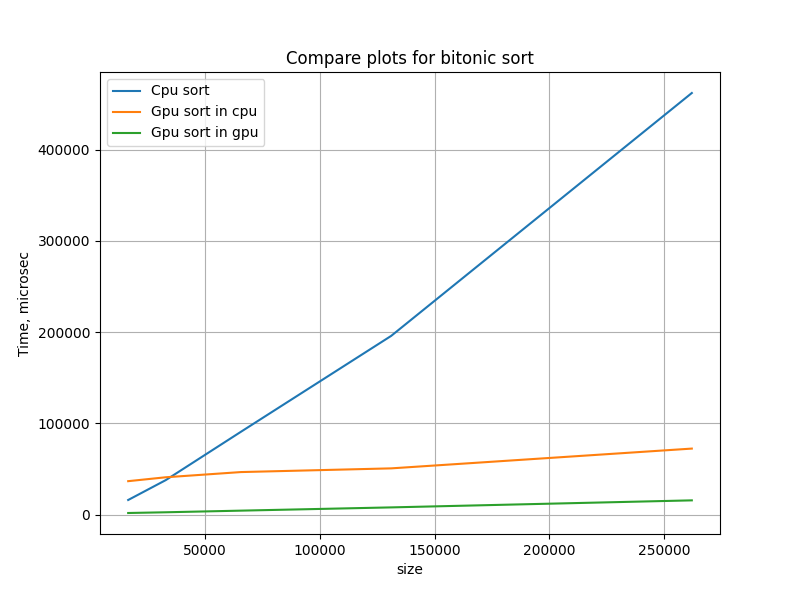
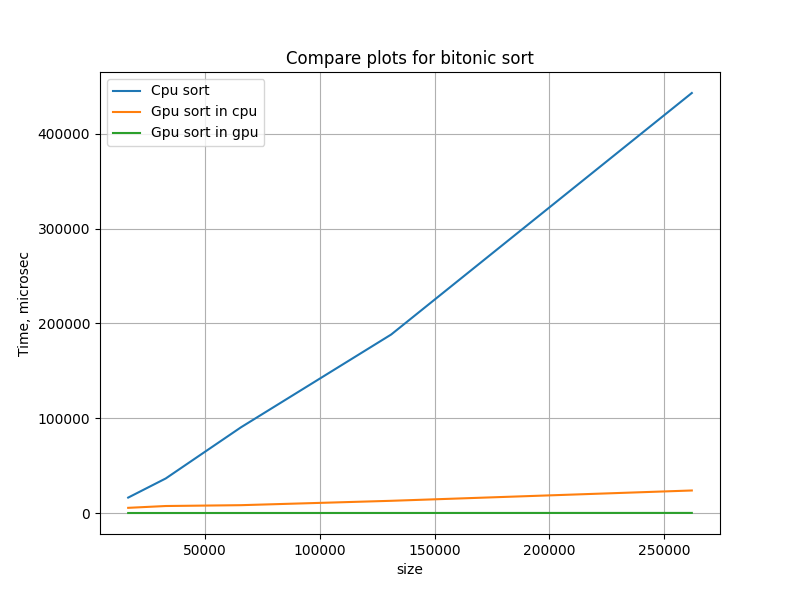
fixed gpu sort logic

diff --git a/OpenCL/include/GpuBitonicSort.hpp b/OpenCL/include/GpuBitonicSort.hpp
@@ -75,35 +75,28 @@ public:
 
         size_t bufSize = size * sizeof(T);
         cl::Buffer buf(context_, CL_MEM_WRITE_ONLY, bufSize);
-
-        using namespace std::chrono;
-        auto cpuStart = high_resolution_clock::now();
-        cl::copy(queue_, data.begin(), data.end(), buf);
-        auto cpuEnd = high_resolution_clock::now();
-        auto cpuElapsed = duration_cast<microseconds>(cpuEnd - cpuStart).count();
-
         cl::KernelFunctor<cl::Buffer, uint, uint> parallel(program_, "bitonic");
         cl::NDRange globalRange(size);
+        cl::Event event;
+
+        using namespace std::chrono;
+
+        auto cpuStart = high_resolution_clock::now();
+        cl::copy(queue_, data.begin(), data.end(), buf);
         cl::EnqueueArgs args(queue_, globalRange);
-
-        cl_ulong gpuStart = 0;
-        cl_ulong gpuEnd = 0;
-        long long gpuElapsed = 0;
-
-        cpuStart = high_resolution_clock::now();
         for (size_t stage = 2U; stage <= size; stage = stage << 1) {
             for (size_t step = stage >> 1; step > 0; step = step >> 1) {
-                cl::Event event = parallel(args, buf, stage, step);
-                event.wait();
-                gpuStart = event.getProfilingInfo<CL_PROFILING_COMMAND_START>();
-                gpuEnd = event.getProfilingInfo<CL_PROFILING_COMMAND_END>();
-                gpuElapsed += (gpuEnd - gpuStart) / 1000;
+                event = parallel(args, buf, stage, step);
             }
         }
+        event.wait();
         cl::copy(queue_, buf, data.begin(), data.end());
-        cpuEnd = high_resolution_clock::now();
+        auto cpuEnd = high_resolution_clock::now();
 
-        cpuElapsed += duration_cast<microseconds>(cpuEnd - cpuStart).count();
+        auto cpuElapsed = duration_cast<microseconds>(cpuEnd - cpuStart).count();
+        auto gpuStart = event.getProfilingInfo<CL_PROFILING_COMMAND_START>();
+        auto gpuEnd = event.getProfilingInfo<CL_PROFILING_COMMAND_END>();
+        long long gpuElapsed = (gpuEnd - gpuStart) / 1000;
         cpuElapsed -= gpuElapsed;
         return {cpuElapsed, gpuElapsed};
     }

diff --git a/OpenCL/test/OpenCLTest.cpp b/OpenCL/test/OpenCLTest.cpp
@@ -10,7 +10,7 @@
 
 using namespace opencl;
 
-static const char* execPath = nullptr;
+static std::filesystem::path execPath = ".";
 
 TEST(CpuSortTest, TestReadFunction) {
     std::stringstream is;
@@ -24,7 +24,8 @@ TEST(CpuSortTest, TestReadFunction) {
 
 TEST(CpuSortTest, CpuEnd2endTest) {
     namespace fs = std::filesystem;
-    std::string inputPath = "../tests/";
+    auto buildDir = fs::absolute(fs::path{execPath}.parent_path());
+    std::string inputPath = buildDir / std::string("../tests/");
     for (auto&& p: fs::directory_iterator(inputPath)) {
         std::string filePath = p.path().generic_string();
         if (filePath.find(".dat") == std::string::npos ||
@@ -60,8 +61,9 @@ TEST(CpuSortTest, CpuEnd2endTest) {
 
 TEST(GpuSortTest, GpuEnd2endTest) {
     namespace fs = std::filesystem;
-    std::string inputPath = "../tests/";
-    OpenClApp app(execPath);
+    auto buildDir = fs::absolute(fs::path{execPath}.parent_path());
+    std::string inputPath = buildDir / std::string("../tests/");
+    OpenClApp app(execPath.c_str());
     app.buildProgram<int>("../src/BitonicInt.cl");
     for (auto&& p: fs::directory_iterator(inputPath)) {
         std::string filePath = p.path().generic_string();
@@ -98,12 +100,12 @@ TEST(GpuSortTest, GpuEnd2endTest) {
 
 TEST(CompareSortTest, CpuVSGpu) {
     namespace fs = std::filesystem;
-    std::string inputPath = "../tests/";
     auto buildDir = fs::absolute(fs::path{execPath}.parent_path());
-    //fs::create_directory(buildDir / std::string("../res"));
+    std::string inputPath = buildDir / std::string("../tests/");
+    fs::create_directory(buildDir / std::string("../res"));
     std::ofstream comp{buildDir.c_str() + std::string("/../res/compare.txt")};    
 
-    OpenClApp app(execPath);
+    OpenClApp app(execPath.c_str());
     app.buildProgram<int>("../src/BitonicInt.cl");
     for (auto&& p: fs::directory_iterator(buildDir / inputPath)) {
         std::string filePath = p.path().generic_string();
